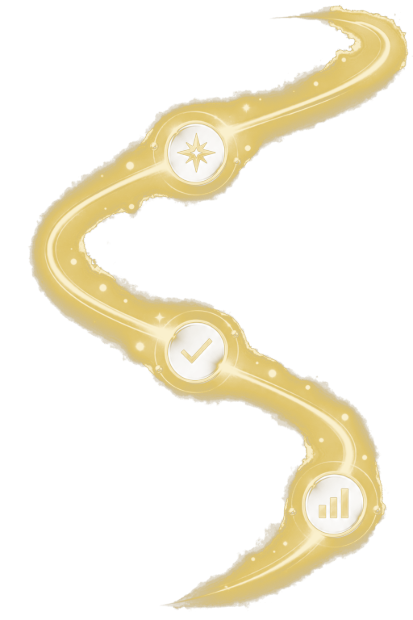
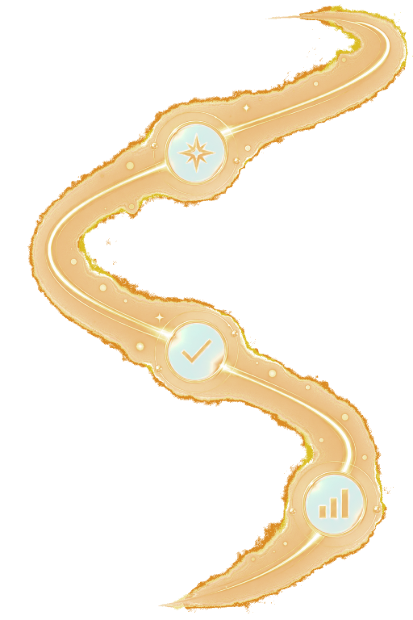
Fix the journey glow and re-place its steps
Glow
The path was cut with the same gold-ramp treatment as the solid icons, which
is wrong for light. A ramp turns a soft falloff into flat gold at partial
alpha, so the halo gained a visible edge and the ribbon lost its interior —
it read as a cut-out shape rather than as something glowing.

It is now extracted the way light composites: alpha is the artwork's own
coverage, and colour is un-premultiplied to recover what the glow emits.
That restores the bright core, the sparkles and a smooth falloff.

Un-premultiplying re-exposed the render's chroma bleed as red and yellow
along the edges. Weighting the correction by alpha does not reach it — those
pixels are saturated at full coverage, not faint. Hue is instead clamped into
the gold band for warm pixels only, so the nodes' emerald interiors (~160
deg) pass through untouched.

Steps
Measured against the reference rather than guessed: the columns are narrower,
the horizontal stagger is much stronger, and the numerals are larger. The
curve is pushed further right so no line crosses the glow — the stagger
cannot be taken as far as the reference, because the artwork is
proportionally wider on a handset than on the mockup's taller canvas.

Verified in a browser at 390x844: no text over the glow, the slide still fits
without scrolling, and the cross-fade still holds. tsc clean.

Claude-Session: https://claude.ai/code/session_012dwWKLThHKFMACh6dXpXYp

Changed region(s): [[0.0581, 0.0, 0.9879, 1.0]]

diff --git a/src/components/onboarding/SlideContent.tsx b/src/components/onboarding/SlideContent.tsx
@@ -180,7 +180,7 @@ function Journey({ slide }: { slide: OnboardingSlide }) {
 
       {(slide.steps ?? []).map((s, i) => (
         <View key={s.index} style={[styles.journeyStep, STEP_POS[i]]}>
-          <Text variant="h4" color={scale.gold400}>
+          <Text variant="h3" color={scale.gold400}>
             {s.index}
           </Text>
           <Text variant="label" tone="onDark" style={styles.stepTitle}>
@@ -206,12 +206,16 @@ function Journey({ slide }: { slide: OnboardingSlide }) {
  * Nodes sit at roughly (48%, 24%), (48%, 57%) and (83%, 80%) of the artwork.
  */
 const STEP_POS = [
-  { top: '-2%', left: '0%', width: '60%' },
-  // Narrower: the curve bulges furthest left at this height, and text running
-  // over the glow is the one thing that costs more than the stagger buys.
-  { top: '31%', left: '7%', width: '46%' },
-  { top: '65%', left: '2%', width: '62%' },
+  { top: '-4%', left: '0%', width: '50%' },
+  // Indented, following the curve — but only as far as the glow allows. The
+  // artwork swings widest left at this height, and text over the glow is the
+  // one thing that costs more than the stagger buys.
+  { top: '30%', left: '14%', width: '46%' },
+  { top: '63%', left: '6%', width: '50%' },
 ] as const;
+
+/** How far the curve sits past the block's right edge, clearing the columns. */
+const PATH_BLEED = 48;
 
 const DISC = scaleWidth(44);
 
@@ -270,7 +274,7 @@ const styles = StyleSheet.create({
   },
   journeyPath: {
     position: 'absolute',
-    right: -spacing.xxl,
+    right: -PATH_BLEED,
     // Bleeds a little above and below the block so the curve reads at a size
     // worth looking at; the block itself is only ~190pt tall on a handset.
     top: '-9%',
@@ -278,7 +282,7 @@ const styles = StyleSheet.create({
     // Both axes explicit. Absolute insets are not enough: an Image with no
     // definite height falls back to the artwork's own 620 px and overflows,
     // leaving a single node filling the corner.
-    width: '70%',
+    width: '66%',
   },
   journeyStep: {
     position: 'absolute',

diff --git a/src/components/onboarding/slides.ts b/src/components/onboarding/slides.ts
@@ -65,17 +65,17 @@ export const SLIDES: OnboardingSlide[] = [
       {
         index: '01',
         title: 'Discover Your Goals',
-        body: 'Tell us what you want to improve and what matters most.',
+        body: 'Tell us what you want to improve and what matters most to you.',
       },
       {
         index: '02',
         title: 'Your Personalized Plan',
-        body: 'A care plan built for you, with the right treatments.',
+        body: 'We craft a care plan just for you with the right treatments.',
       },
       {
         index: '03',
         title: 'Track Your Progress',
-        body: 'Stay on track with appointments and real milestones.',
+        body: 'Stay on track with your appointments, milestones and progress.',
       },
     ],
   },
